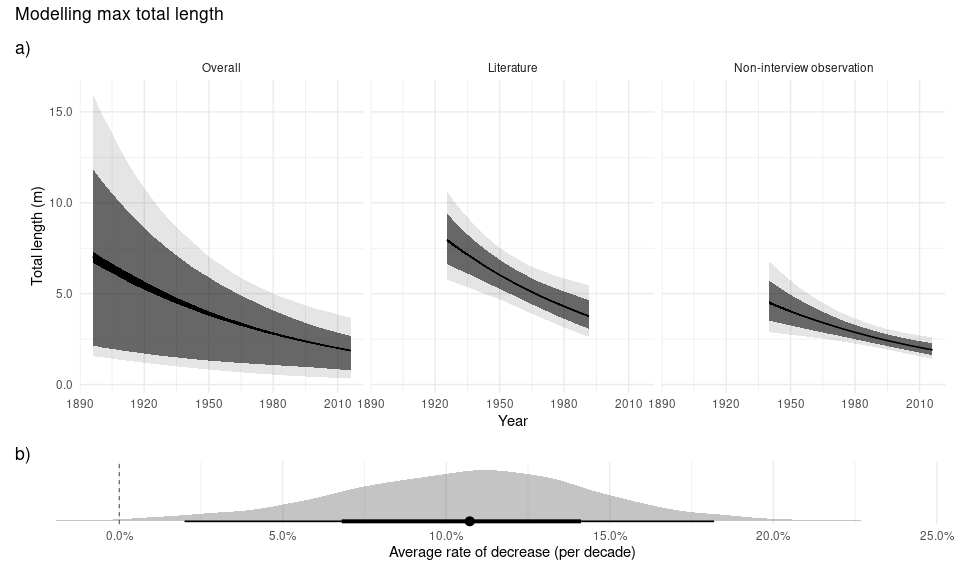
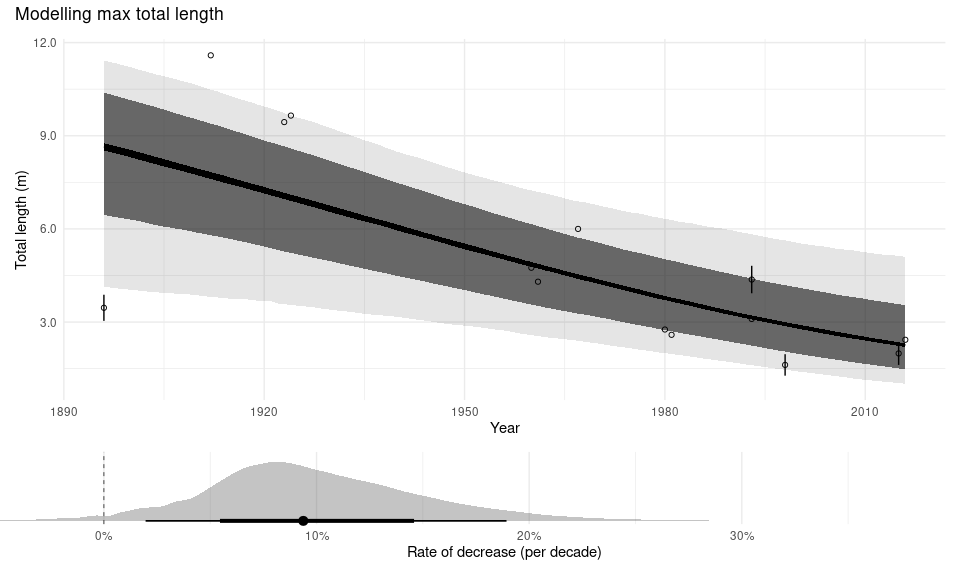
Add potential paper figures to data exploration notebook

diff --git a/notebooks/data-exploration.md b/notebooks/data-exploration.md
@@ -123,8 +123,89 @@ drake::readd(fig_max_length_vs_time) +
 ![](data-exploration_files/figure-gfm/unnamed-chunk-4-1.png)<!-- -->
 
 ``` r
-drake::readd(fig_max_length_vs_time) +
+drake::readd(fig_length_vs_time) +
   plot_annotation(title = "Modelling all total length")
 ```
 
 ![](data-exploration_files/figure-gfm/unnamed-chunk-4-2.png)<!-- -->
+
+## Encounters
+
+``` r
+drake::loadd(encounters)
+
+enc_data <- encounters %>%
+  filter(reported_collection_year > 1800) %>%
+  mutate(source_type = fct_reorder(source_type, reported_collection_year, median), 
+         country = fct_infreq(country))
+
+enc_data %>%
+  ggplot(aes(x = reported_collection_year, fill = source_type)) + 
+  geom_histogram(binwidth = 10, center = 2000) +
+  facet_wrap("country", ncol = 2) +
+  # scale_fill_brewer(palette = "Set1") + 
+  # scale_y_continuous(sec.axis = sec_axis(~ . / nrow(enc_data), 
+                                         # labels = scales::label_percent(), name = "Percentage of encounters")) +
+  scale_fill_viridis_d() +
+  # scale_x_binned(stat  = "co") +
+  theme_minimal() +
+  theme(legend.position = "top", 
+        legend.title = element_blank()) +
+  labs(x = "Reported collection year", 
+       y = "Number of encounters")
+```
+
+![](data-exploration_files/figure-gfm/unnamed-chunk-5-1.png)<!-- -->
+
+``` r
+library(rnaturalearth)
+library(rnaturalearthhires)
+world <- ne_countries(country = c("Colombia", "Panama", "Costa Rica"), scale = "large", returnclass = "sf")
+
+map_data <-
+  encounters %>%
+    filter(reported_collection_year > 1800) %>%
+  mutate(source_type = fct_reorder(source_type, reported_collection_year, median), 
+         across(c(longitude, latitude), as.numeric)) %>%
+  filter(latitude > 0)
+```
+
+    ## Warning: Problem with `mutate()` input `..2`.
+    ## ℹ NAs introduced by coercion
+    ## ℹ Input `..2` is `across(c(longitude, latitude), as.numeric)`.
+
+    ## Warning in fn(col, ...): NAs introduced by coercion
+
+    ## Warning: Problem with `mutate()` input `..2`.
+    ## ℹ NAs introduced by coercion
+    ## ℹ Input `..2` is `across(c(longitude, latitude), as.numeric)`.
+
+    ## Warning in fn(col, ...): NAs introduced by coercion
+
+``` r
+p1 <- ggplot(data = map_data) + 
+  geom_sf(data = world, inherit.aes = F, alpha = 0.5, colour = "grey30") +
+  geom_point(data = map_data, aes(x = longitude, y = latitude, fill = source_type), shape = 21) + 
+  scale_fill_viridis_d() +
+  theme_minimal() +
+  theme(axis.title = element_blank()) +
+  coord_sf(xlim = c(-83.9, -73), ylim = c(4.1, 11.9), expand = FALSE) +
+  scale_x_continuous(breaks = seq(-90, 90, by = 2)) +
+  scale_y_continuous(breaks = seq(-90, 90, by = 2)) +
+  labs(fill = "Source")
+
+p2 <- ggplot(data = map_data) + 
+  geom_sf(data = world, inherit.aes = F, alpha = 0.5, colour = "grey30") +
+  geom_point(data = map_data, aes(x = longitude, y = latitude, fill = reported_collection_year), shape = 21) + 
+  scale_fill_stepsn(breaks = seq(1000, 3000, by = 25), colours = viridis::viridis(2)) +
+  theme_minimal() +
+  theme(axis.title = element_blank()) +
+  coord_sf(xlim = c(-83.9, -73), ylim = c(4.1, 11.9), expand = FALSE) +
+  scale_x_continuous(breaks = seq(-90, 90, by = 2)) +
+  scale_y_continuous(breaks = seq(-90, 90, by = 2)) +
+  labs(fill = "Year")
+
+p1 + p2 + plot_layout(ncol = 1) 
+```
+
+![](data-exploration_files/figure-gfm/unnamed-chunk-6-1.png)<!-- -->
